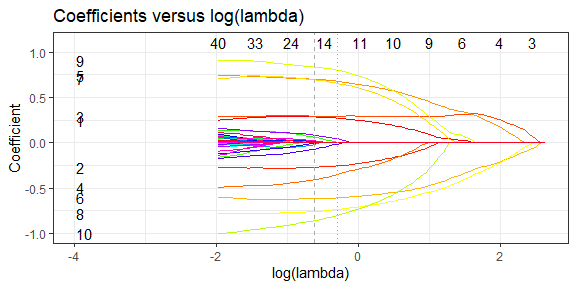
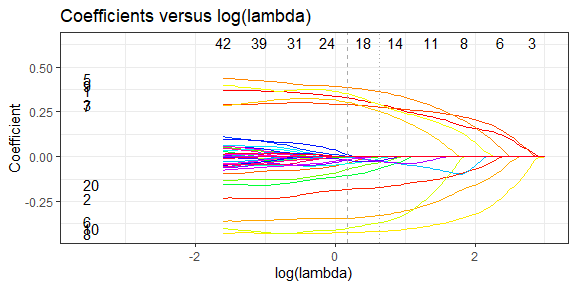
Renaming the package

diff --git a/src/RcppExports.cpp b/src/RcppExports.cpp
@@ -13,7 +13,7 @@ Rcpp::Rostream<false>& Rcpp::Rcerr = Rcpp::Rcpp_cerr_get();
 
 // softthreshold
 double softthreshold(double x, double lambda);
-RcppExport SEXP _LogRatioReg_softthreshold(SEXP xSEXP, SEXP lambdaSEXP) {
+RcppExport SEXP _FLORAL_softthreshold(SEXP xSEXP, SEXP lambdaSEXP) {
 BEGIN_RCPP
     Rcpp::RObject rcpp_result_gen;
     Rcpp::RNGScope rcpp_rngScope_gen;
@@ -25,7 +25,7 @@ END_RCPP
 }
 // gd_naive
 arma::vec gd_naive(arma::mat x, arma::vec y, double l, arma::vec beta);
-RcppExport SEXP _LogRatioReg_gd_naive(SEXP xSEXP, SEXP ySEXP, SEXP lSEXP, SEXP betaSEXP) {
+RcppExport SEXP _FLORAL_gd_naive(SEXP xSEXP, SEXP ySEXP, SEXP lSEXP, SEXP betaSEXP) {
 BEGIN_RCPP
     Rcpp::RObject rcpp_result_gen;
     Rcpp::RNGScope rcpp_rngScope_gen;
@@ -39,7 +39,7 @@ END_RCPP
 }
 // gd_cov
 arma::vec gd_cov(arma::mat xx, arma::vec xy, int n, double l, arma::vec beta);
-RcppExport SEXP _LogRatioReg_gd_cov(SEXP xxSEXP, SEXP xySEXP, SEXP nSEXP, SEXP lSEXP, SEXP betaSEXP) {
+RcppExport SEXP _FLORAL_gd_cov(SEXP xxSEXP, SEXP xySEXP, SEXP nSEXP, SEXP lSEXP, SEXP betaSEXP) {
 BEGIN_RCPP
     Rcpp::RObject rcpp_result_gen;
     Rcpp::RNGScope rcpp_rngScope_gen;
@@ -54,7 +54,7 @@ END_RCPP
 }
 // gd_cov_al
 arma::vec gd_cov_al(arma::mat xx, arma::vec xy, int n, double l, arma::vec beta, double mu, double alpha, bool intercept);
-RcppExport SEXP _LogRatioReg_gd_cov_al(SEXP xxSEXP, SEXP xySEXP, SEXP nSEXP, SEXP lSEXP, SEXP betaSEXP, SEXP muSEXP, SEXP alphaSEXP, SEXP interceptSEXP) {
+RcppExport SEXP _FLORAL_gd_cov_al(SEXP xxSEXP, SEXP xySEXP, SEXP nSEXP, SEXP lSEXP, SEXP betaSEXP, SEXP muSEXP, SEXP alphaSEXP, SEXP interceptSEXP) {
 BEGIN_RCPP
     Rcpp::RObject rcpp_result_gen;
     Rcpp::RNGScope rcpp_rngScope_gen;
@@ -72,7 +72,7 @@ END_RCPP
 }
 // linear_lasso
 Rcpp::List linear_lasso(arma::mat x, arma::vec y, int len);
-RcppExport SEXP _LogRatioReg_linear_lasso(SEXP xSEXP, SEXP ySEXP, SEXP lenSEXP) {
+RcppExport SEXP _FLORAL_linear_lasso(SEXP xSEXP, SEXP ySEXP, SEXP lenSEXP) {
 BEGIN_RCPP
     Rcpp::RObject rcpp_result_gen;
     Rcpp::RNGScope rcpp_rngScope_gen;
@@ -85,7 +85,7 @@ END_RCPP
 }
 // linear_lasso_al
 Rcpp::List linear_lasso_al(arma::mat x, arma::vec y, int len, double mu, int ub, arma::vec lambda, bool intercept, bool display_progress);
-RcppExport SEXP _LogRatioReg_linear_lasso_al(SEXP xSEXP, SEXP ySEXP, SEXP lenSEXP, SEXP muSEXP, SEXP ubSEXP, SEXP lambdaSEXP, SEXP interceptSEXP, SEXP display_progressSEXP) {
+RcppExport SEXP _FLORAL_linear_lasso_al(SEXP xSEXP, SEXP ySEXP, SEXP lenSEXP, SEXP muSEXP, SEXP ubSEXP, SEXP lambdaSEXP, SEXP interceptSEXP, SEXP display_progressSEXP) {
 BEGIN_RCPP
     Rcpp::RObject rcpp_result_gen;
     Rcpp::RNGScope rcpp_rngScope_gen;
@@ -103,7 +103,7 @@ END_RCPP
 }
 // logistic_lasso_al
 Rcpp::List logistic_lasso_al(arma::mat x, arma::vec y, int len, double mu, int ub, arma::vec lambda, bool display_progress, bool loop1, bool loop2);
-RcppExport SEXP _LogRatioReg_logistic_lasso_al(SEXP xSEXP, SEXP ySEXP, SEXP lenSEXP, SEXP muSEXP, SEXP ubSEXP, SEXP lambdaSEXP, SEXP display_progressSEXP, SEXP loop1SEXP, SEXP loop2SEXP) {
+RcppExport SEXP _FLORAL_logistic_lasso_al(SEXP xSEXP, SEXP ySEXP, SEXP lenSEXP, SEXP muSEXP, SEXP ubSEXP, SEXP lambdaSEXP, SEXP display_progressSEXP, SEXP loop1SEXP, SEXP loop2SEXP) {
 BEGIN_RCPP
     Rcpp::RObject rcpp_result_gen;
     Rcpp::RNGScope rcpp_rngScope_gen;
@@ -122,7 +122,7 @@ END_RCPP
 }
 // cox_lasso_al
 Rcpp::List cox_lasso_al(arma::mat x, arma::vec t, arma::vec d, arma::vec tj, int len, double mu, int ub, arma::vec lambda, double devnull, bool display_progress, bool loop1, bool loop2, bool notcv);
-RcppExport SEXP _LogRatioReg_cox_lasso_al(SEXP xSEXP, SEXP tSEXP, SEXP dSEXP, SEXP tjSEXP, SEXP lenSEXP, SEXP muSEXP, SEXP ubSEXP, SEXP lambdaSEXP, SEXP devnullSEXP, SEXP display_progressSEXP, SEXP loop1SEXP, SEXP loop2SEXP, SEXP notcvSEXP) {
+RcppExport SEXP _FLORAL_cox_lasso_al(SEXP xSEXP, SEXP tSEXP, SEXP dSEXP, SEXP tjSEXP, SEXP lenSEXP, SEXP muSEXP, SEXP ubSEXP, SEXP lambdaSEXP, SEXP devnullSEXP, SEXP display_progressSEXP, SEXP loop1SEXP, SEXP loop2SEXP, SEXP notcvSEXP) {
 BEGIN_RCPP
     Rcpp::RObject rcpp_result_gen;
     Rcpp::RNGScope rcpp_rngScope_gen;
@@ -145,7 +145,7 @@ END_RCPP
 }
 // cox_timedep_lasso_al
 Rcpp::List cox_timedep_lasso_al(arma::mat x, arma::vec t0, arma::vec t1, arma::vec d, arma::vec tj, int len, double mu, int ub, arma::vec lambda, double devnull, bool display_progress);
-RcppExport SEXP _LogRatioReg_cox_timedep_lasso_al(SEXP xSEXP, SEXP t0SEXP, SEXP t1SEXP, SEXP dSEXP, SEXP tjSEXP, SEXP lenSEXP, SEXP muSEXP, SEXP ubSEXP, SEXP lambdaSEXP, SEXP devnullSEXP, SEXP display_progressSEXP) {
+RcppExport SEXP _FLORAL_cox_timedep_lasso_al(SEXP xSEXP, SEXP t0SEXP, SEXP t1SEXP, SEXP dSEXP, SEXP tjSEXP, SEXP lenSEXP, SEXP muSEXP, SEXP ubSEXP, SEXP lambdaSEXP, SEXP devnullSEXP, SEXP display_progressSEXP) {
 BEGIN_RCPP
     Rcpp::RObject rcpp_result_gen;
     Rcpp::RNGScope rcpp_rngScope_gen;
@@ -166,7 +166,7 @@ END_RCPP
 }
 // fg_lasso_al
 Rcpp::List fg_lasso_al(arma::mat x, arma::vec t0, arma::vec t1, arma::vec d, arma::vec tj, arma::vec w, int len, double mu, int ub, arma::vec lambda, double devnull, bool display_progress);
-RcppExport SEXP _LogRatioReg_fg_lasso_al(SEXP xSEXP, SEXP t0SEXP, SEXP t1SEXP, SEXP dSEXP, SEXP tjSEXP, SEXP wSEXP, SEXP lenSEXP, SEXP muSEXP, SEXP ubSEXP, SEXP lambdaSEXP, SEXP devnullSEXP, SEXP display_progressSEXP) {
+RcppExport SEXP _FLORAL_fg_lasso_al(SEXP xSEXP, SEXP t0SEXP, SEXP t1SEXP, SEXP dSEXP, SEXP tjSEXP, SEXP wSEXP, SEXP lenSEXP, SEXP muSEXP, SEXP ubSEXP, SEXP lambdaSEXP, SEXP devnullSEXP, SEXP display_progressSEXP) {
 BEGIN_RCPP
     Rcpp::RObject rcpp_result_gen;
     Rcpp::RNGScope rcpp_rngScope_gen;
@@ -188,20 +188,20 @@ END_RCPP
 }
 
 static const R_CallMethodDef CallEntries[] = {
-    {"_LogRatioReg_softthreshold", (DL_FUNC) &_LogRatioReg_softthreshold, 2},
-    {"_LogRatioReg_gd_naive", (DL_FUNC) &_LogRatioReg_gd_naive, 4},
-    {"_LogRatioReg_gd_cov", (DL_FUNC) &_LogRatioReg_gd_cov, 5},
-    {"_LogRatioReg_gd_cov_al", (DL_FUNC) &_LogRatioReg_gd_cov_al, 8},
-    {"_LogRatioReg_linear_lasso", (DL_FUNC) &_LogRatioReg_linear_lasso, 3},
-    {"_LogRatioReg_linear_lasso_al", (DL_FUNC) &_LogRatioReg_linear_lasso_al, 8},
-    {"_LogRatioReg_logistic_lasso_al", (DL_FUNC) &_LogRatioReg_logistic_lasso_al, 9},
-    {"_LogRatioReg_cox_lasso_al", (DL_FUNC) &_LogRatioReg_cox_lasso_al, 13},
-    {"_LogRatioReg_cox_timedep_lasso_al", (DL_FUNC) &_LogRatioReg_cox_timedep_lasso_al, 11},
-    {"_LogRatioReg_fg_lasso_al", (DL_FUNC) &_LogRatioReg_fg_lasso_al, 12},
+    {"_FLORAL_softthreshold", (DL_FUNC) &_FLORAL_softthreshold, 2},
+    {"_FLORAL_gd_naive", (DL_FUNC) &_FLORAL_gd_naive, 4},
+    {"_FLORAL_gd_cov", (DL_FUNC) &_FLORAL_gd_cov, 5},
+    {"_FLORAL_gd_cov_al", (DL_FUNC) &_FLORAL_gd_cov_al, 8},
+    {"_FLORAL_linear_lasso", (DL_FUNC) &_FLORAL_linear_lasso, 3},
+    {"_FLORAL_linear_lasso_al", (DL_FUNC) &_FLORAL_linear_lasso_al, 8},
+    {"_FLORAL_logistic_lasso_al", (DL_FUNC) &_FLORAL_logistic_lasso_al, 9},
+    {"_FLORAL_cox_lasso_al", (DL_FUNC) &_FLORAL_cox_lasso_al, 13},
+    {"_FLORAL_cox_timedep_lasso_al", (DL_FUNC) &_FLORAL_cox_timedep_lasso_al, 11},
+    {"_FLORAL_fg_lasso_al", (DL_FUNC) &_FLORAL_fg_lasso_al, 12},
     {NULL, NULL, 0}
 };
 
-RcppExport void R_init_LogRatioReg(DllInfo *dll) {
+RcppExport void R_init_FLORAL(DllInfo *dll) {
     R_registerRoutines(dll, NULL, CallEntries, NULL, NULL);
     R_useDynamicSymbols(dll, FALSE);
 }

diff --git a/README.md b/README.md
@@ -1,44 +1,45 @@
 
 <!-- README.md is generated from README.Rmd. Please edit that file -->
 
-# LogRatioReg: Log-ratio Lasso Regression
+# FLORAL: Log-ratio Lasso Regression
 
 <!-- badges: start -->
 
-[![R-CMD-check](https://github.com/tengfei-emory/LogRatioReg/actions/workflows/R-CMD-check.yaml/badge.svg)](https://github.com/tengfei-emory/LogRatioReg/actions/workflows/R-CMD-check.yaml)
+[![R-CMD-check](https://github.com/vdblab/FLORAL/actions/workflows/R-CMD-check.yaml/badge.svg)](https://github.com/vdblab/FLORAL/actions/workflows/R-CMD-check.yaml)
 <!-- badges: end -->
 
-`LogRatioReg` is an open-source computational tool to perform log-ratio
-lasso regression modeling and microbial feature selection for
-continuous, binary, time-to-event, and competing risk outcomes. The
-proposed method adapts the augmented Lagrangian algorithm for a zero-sum
-constraint optimization problem while enabling a two-stage screening
-process for extended false-positive control.
+`FLORAL` is an open-source computational tool to perform log-ratio lasso
+regression modeling and microbial feature selection for continuous,
+binary, time-to-event, and competing risk outcomes. The proposed method
+adapts the augmented Lagrangian algorithm for a zero-sum constraint
+optimization problem while enabling a two-stage screening process for
+extended false-positive control.
 
 ## Installation
 
-You can install the development version of `LogRatioReg` from
+You can install the development version of `FLORAL` from
 [GitHub](https://github.com/) with:
 
 ``` r
 # install.packages("devtools")
-devtools::install_github("tengfei-emory/LogRatioReg")
+devtools::install_github("vdblab/FLORAL")
 ```
 
 ## Example
 
 Here is a toy example for linear regression with 10-fold
-cross-validation with `LogRatioLasso()` for a simulated data with 50
-samples and 100 compositional features.
+cross-validation for a simulated data with 50 samples and 100
+compositional features.
 
 The data simulation procedure is described in the preprint.
 
 ``` r
 
-library(LogRatioReg)
+set.seed(23420)
+library(FLORAL)
 
 dat <- simu(n=50,p=100,model="linear")
-fit <- LogRatioLasso(dat$x,dat$y,ncv=10,progress=FALSE)
+fit <- FLORAL(dat$xcount,dat$y,family="gaussian",ncv=10,progress=FALSE)
 ```
 
 To view plots of cross-validated prediction error and parameter
@@ -46,18 +47,18 @@ coefficients, use `fit$pmse` or `fit$pcoef`:
 
 <img src="man/figures/README-plot-1.png" width="100%" /><img src="man/figures/README-plot-2.png" width="100%" />
 
-For binary and survival outcomes, please use the corresponding functions
-`LogRatioLogisticLasso()` and `LogRatioCoxLasso()`.
+For binary and survival outcomes, please specify `family="binomial"` and
+`family="cox"` accordingly.
 
 ``` r
 
-library(LogRatioReg)
+library(FLORAL)
 library(survival)
 #> Warning: package 'survival' was built under R version 4.1.3
 
 dat.bin <- simu(n=50,p=100,model="binomial")
-fit.bin <- LogRatioLogisticLasso(dat.bin$x,dat.bin$y,ncv=10,progress=FALSE)
+fit.bin <- FLORAL(dat.bin$xcount,dat.bin$y,family="binomial",ncv=10,progress=FALSE)
 
 dat.cox <- simu(n=50,p=100,model="cox")
-fit.cox <- LogRatioCoxLasso(dat.cox$x,Surv(dat.cox$t,dat.cox$d),ncv=10,progress=FALSE)
+fit.cox <- FLORAL(dat.cox$xcount,Surv(dat.cox$t,dat.cox$d),family="cox",ncv=10,progress=FALSE)
 ```
